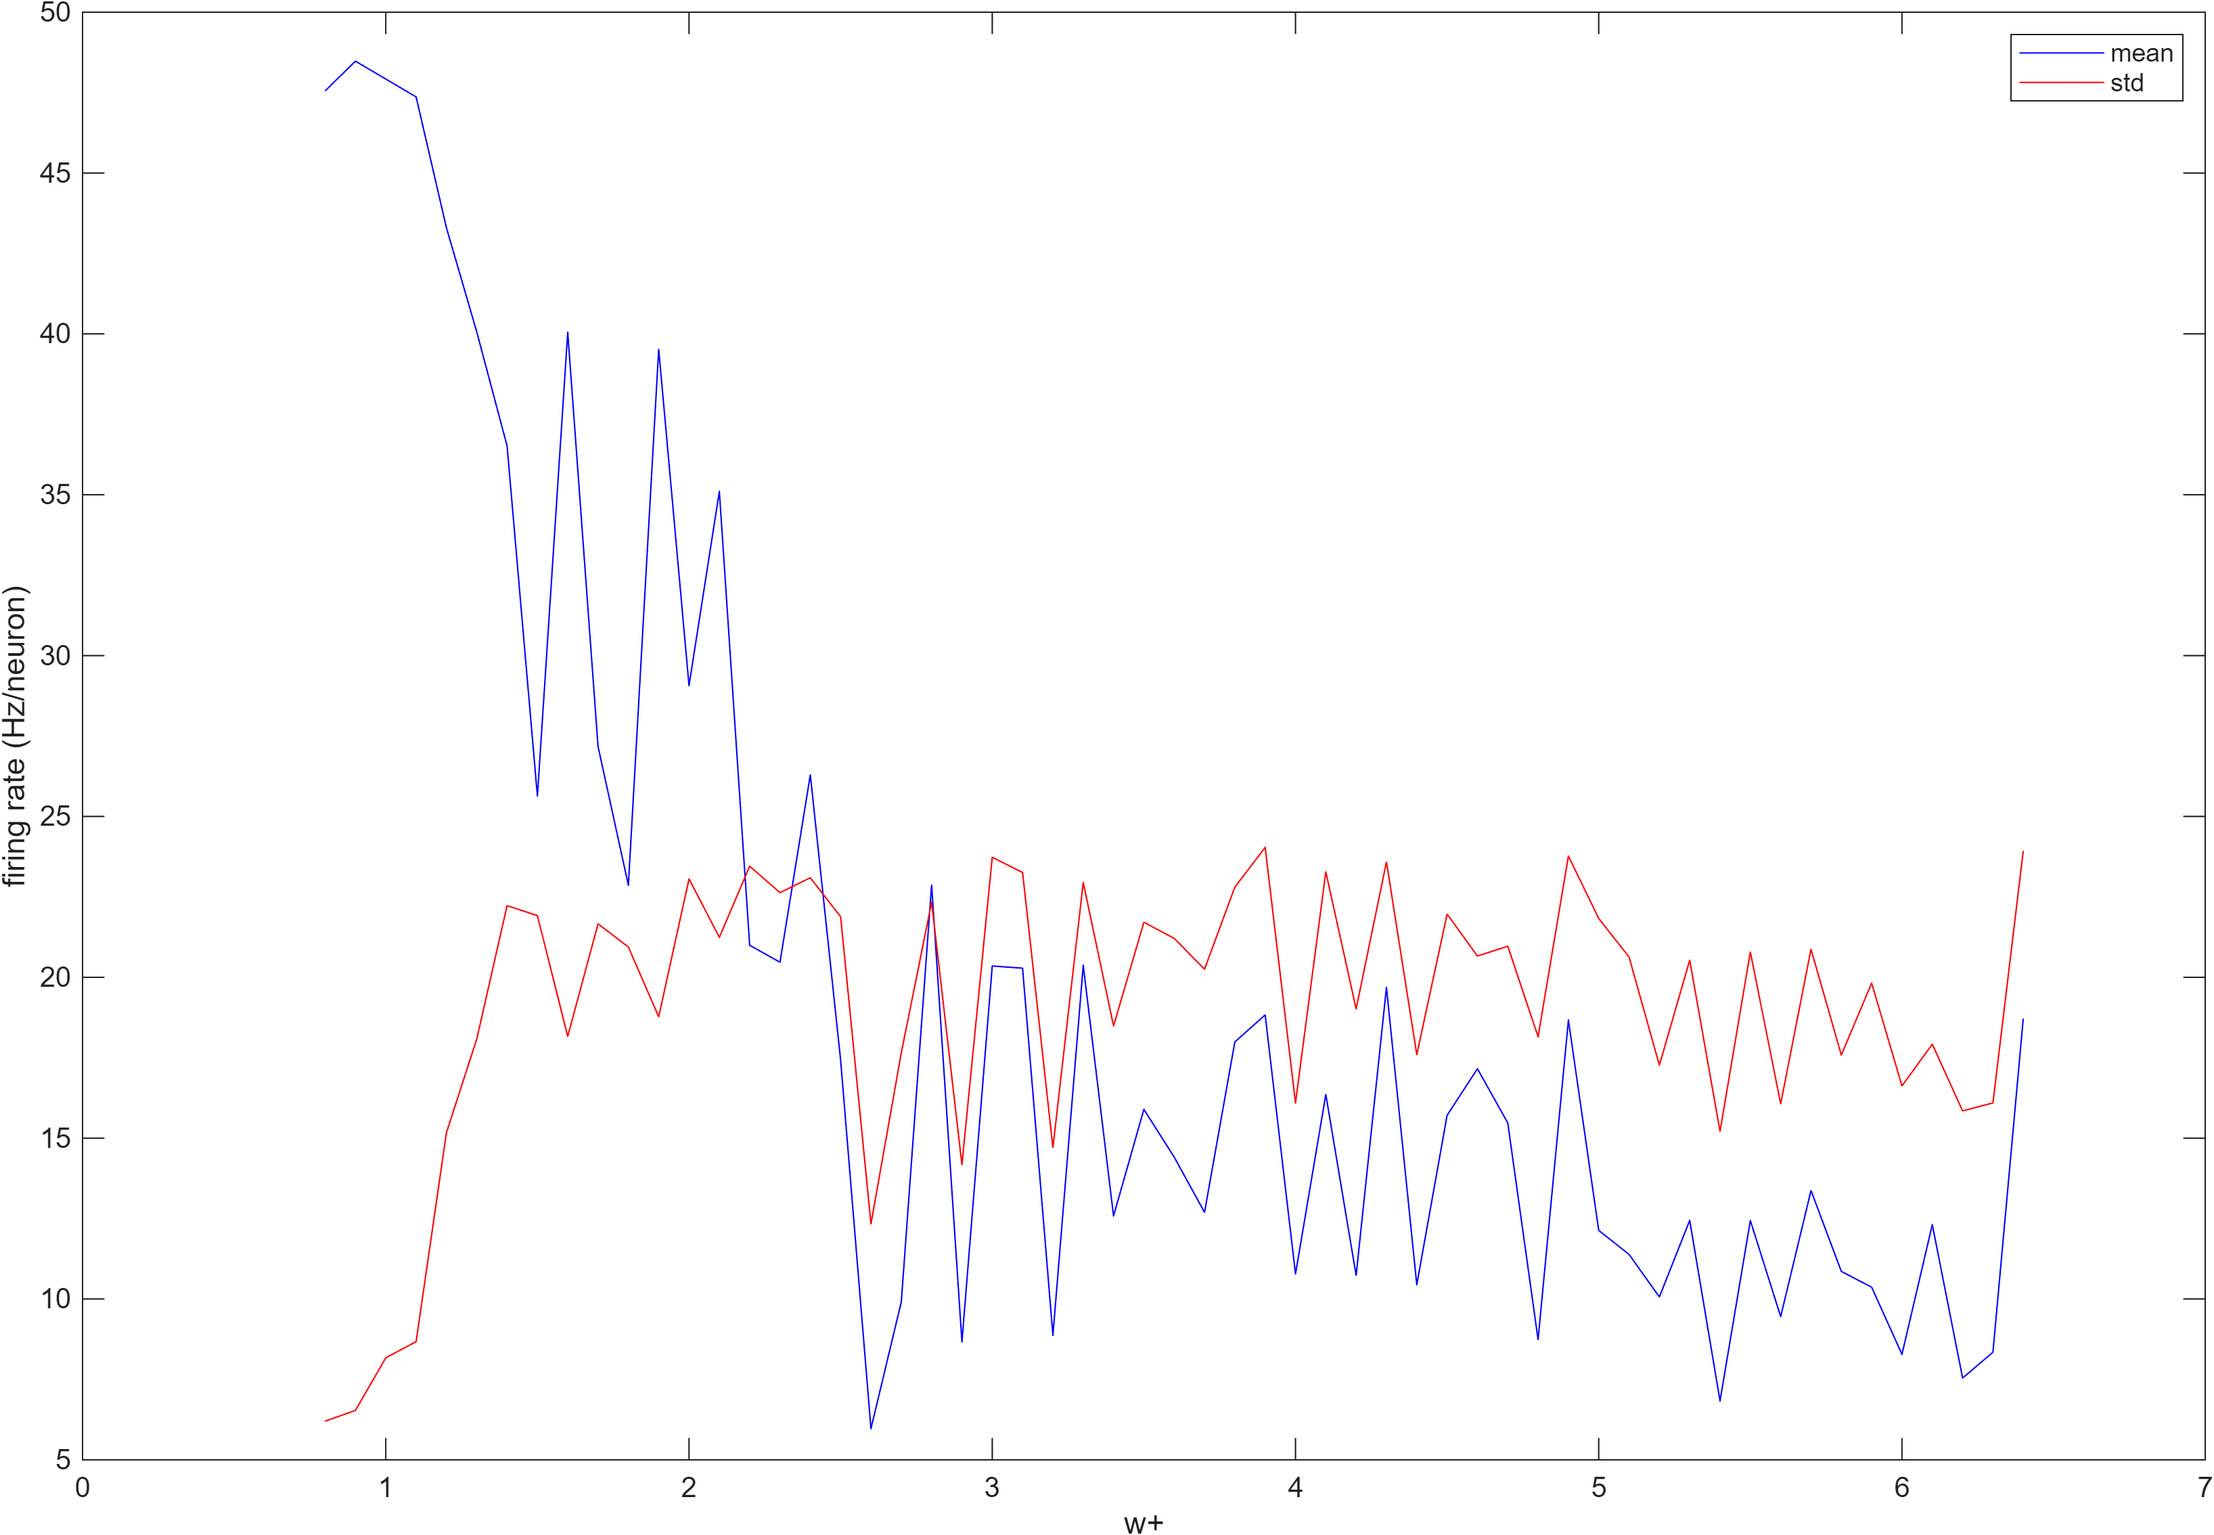
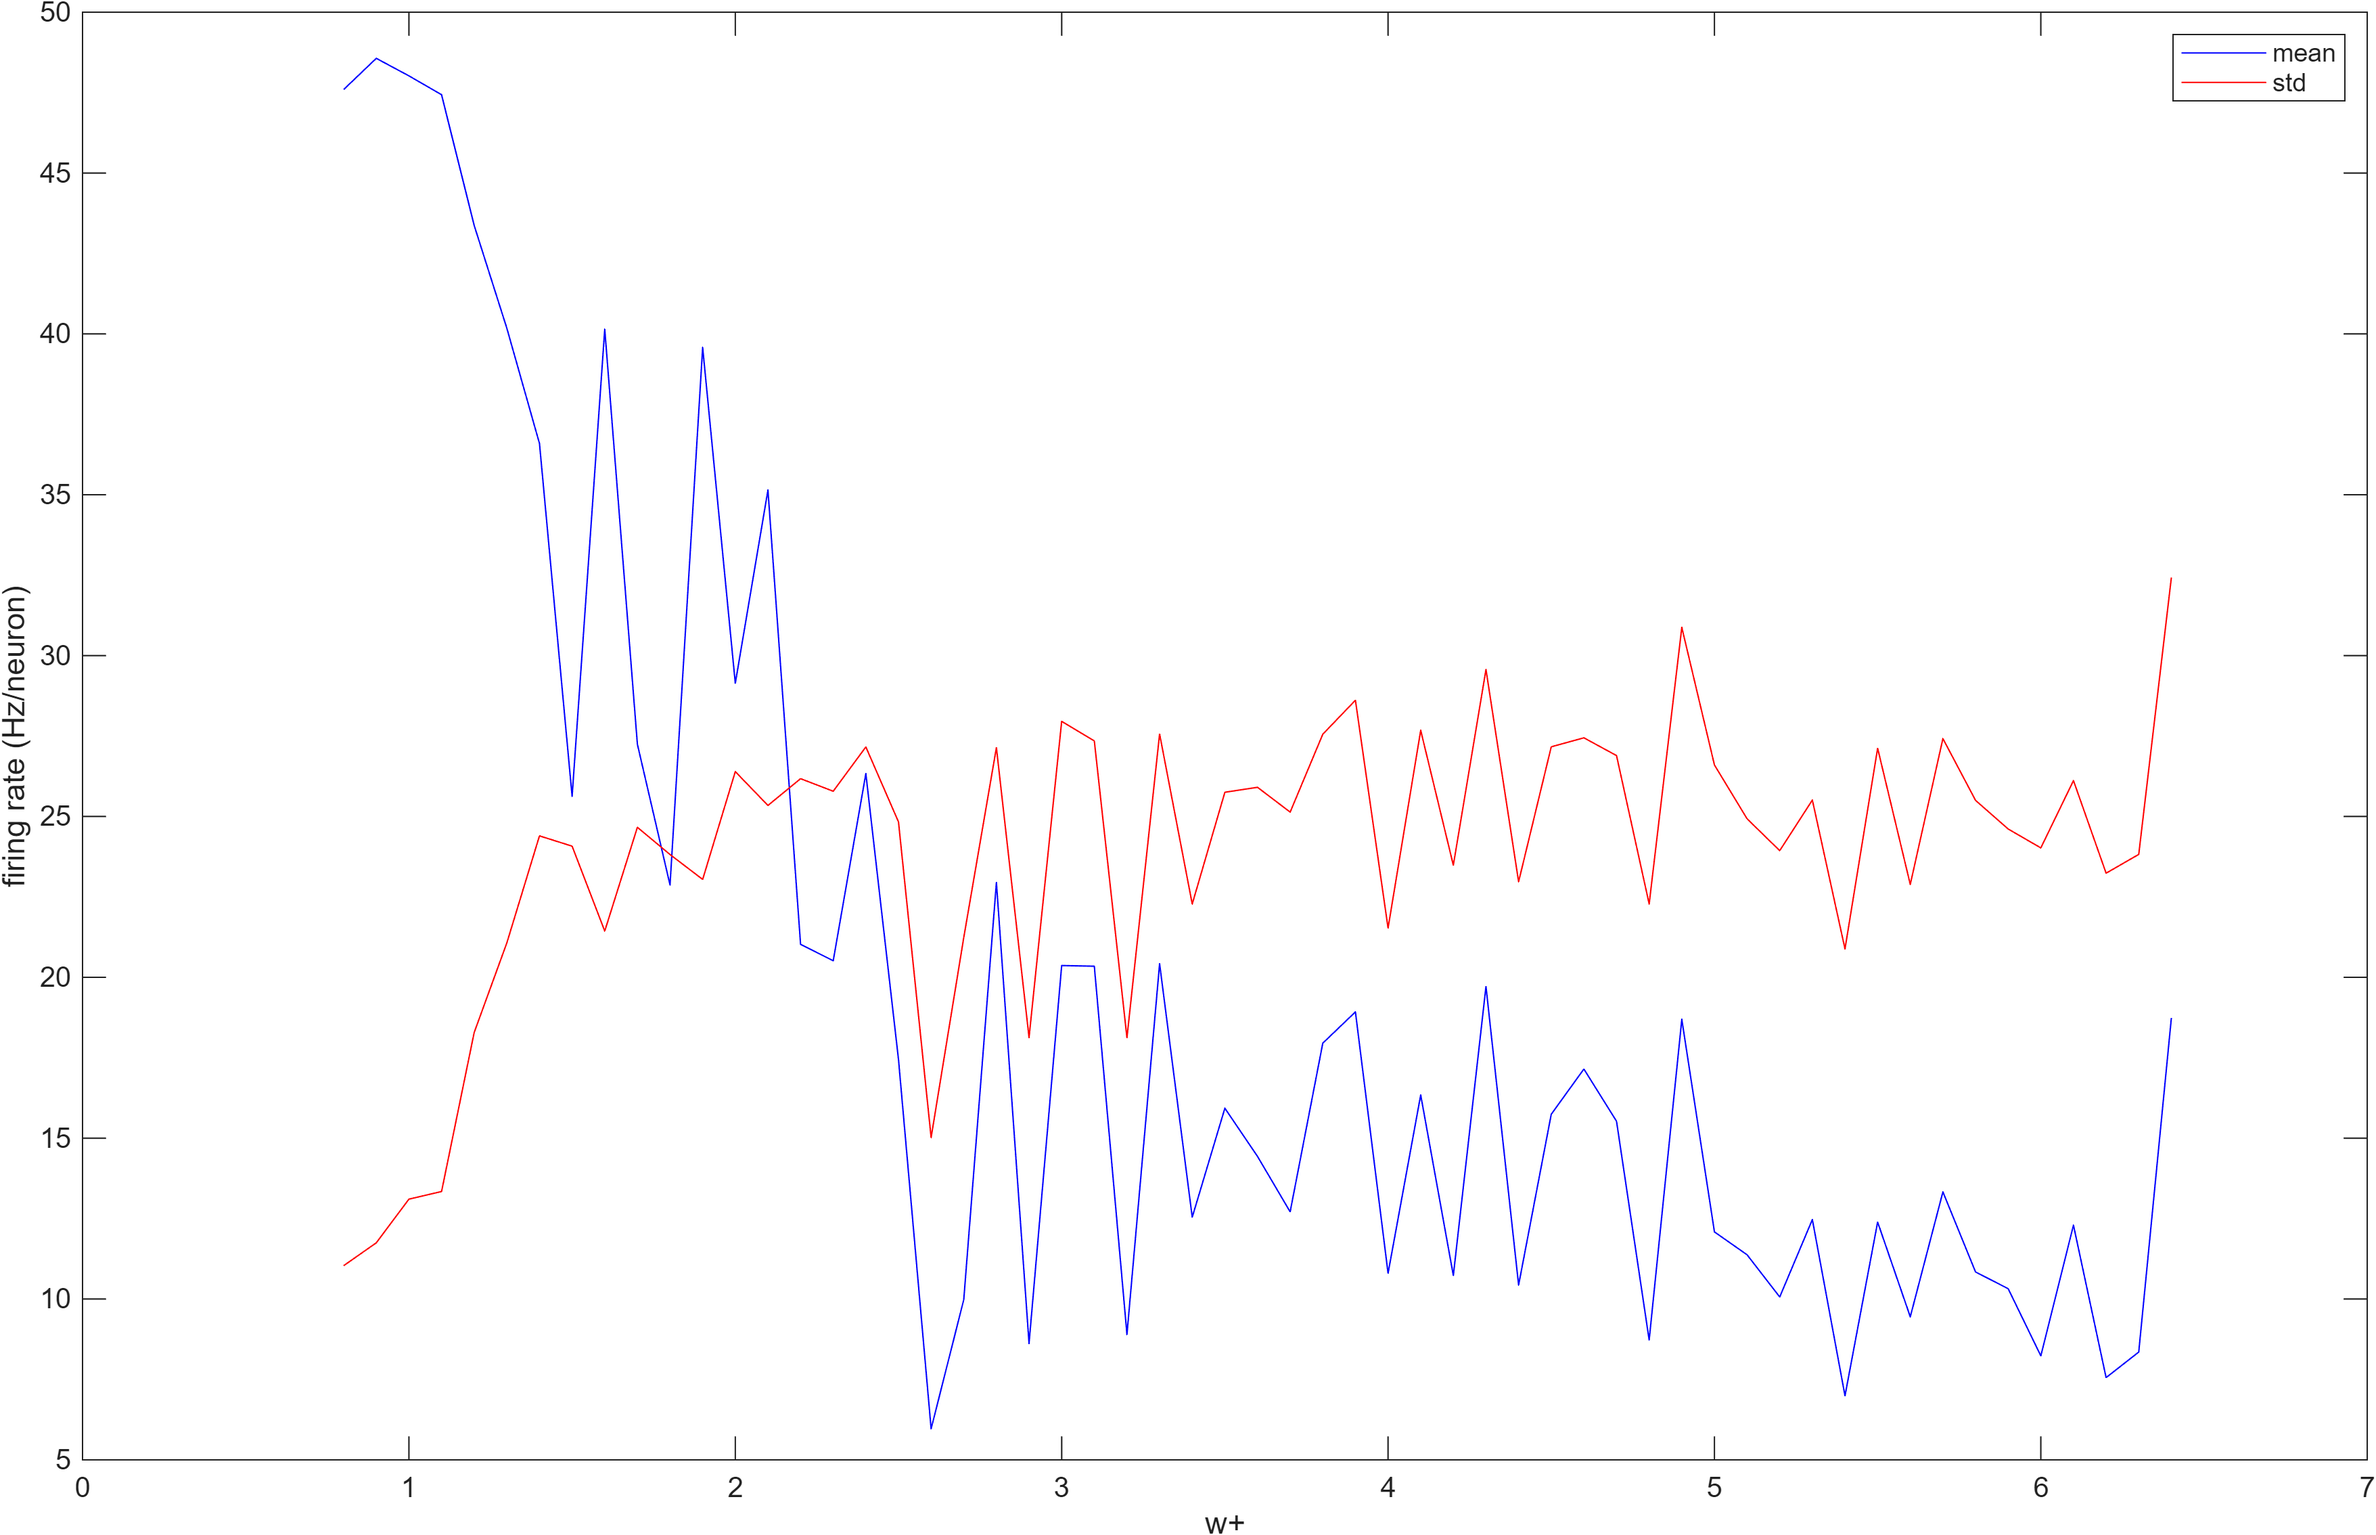
update

diff --git a/fig4.m b/fig4.m
@@ -23,7 +23,7 @@ wff_start = 0.8;
 wff_end = 6.4;
 tbin = 1;     % time bin in ms
 
-if ~exist('fig4','dir'); mkdir(path); end
+if ~exist('fig4','dir'); mkdir('fig4'); end
 
 %% Gillespie in parallel!
 wff = wff_start:wff_step:wff_end;
@@ -88,14 +88,11 @@ for k = 1:numel(files)
     D(D < 0) = 0;           % remove negatives
     event = [zeros(1,N); D];        % prepend first row
     [Tb, nspk] = timebin_sum(T, event, tbin);
-    kt = sum(nspk, 2);
-    cv(k) = std(kt) / mean(kt);
-    fr = nspk / tbin * 1000;    % in Hz
-    fr = gauss_smooth_1d(fr, sigma / tbin);
-    fr = mean(fr, 2);
+    kt = mean(nspk, 2);
 
-    mfr(k) = mean(fr);
-    sfr(k) = std(fr);
+    cv(k) = std(kt) / mean(kt);
+    mfr(k) = mean(kt) / tbin * 1000;
+    sfr(k) = std(kt) / tbin * 1000;
 end
 
 %% Plot Figure 4A, mean & std of firing rate

diff --git a/fig5.m b/fig5.m
@@ -18,8 +18,8 @@ tbin = 0.1;     % time bin in ms
 % params for multiple wff simulation
 wff = 10;
 
-if ~exist('fig5','dir'); mkdir(path); end
-if ~exist('fig5_simplified','dir'); mkdir(path); end
+if ~exist('fig5','dir'); mkdir('fig5'); end
+if ~exist('fig5_simplified','dir'); mkdir('fig5_simplified'); end
 
 %% Gillespie (very slow, and the output data is very big, so saving X as binary)
 

diff --git a/fig3.m b/fig3.m
@@ -17,7 +17,7 @@ ttot = 1000;    % total simulation time in ms
 x_min = 10;     % power law fit parameter
 n_ISI = 50;         % # neuron sampled for ISI distribution
 
-if ~exist('fig3','dir'); mkdir(path); end
+if ~exist('fig3','dir'); mkdir('fig3'); end
 
 %% ========================================= Simulation for wE + wI = 0.8
 w_tot = 0.8;

diff --git a/fig7.m b/fig7.m
@@ -23,7 +23,7 @@ conn_pct = 0.17;    % sparsity
 wff = 10;
 fname = 'fig7/data.mat';
 
-if ~exist('fig7','dir'); mkdir(path); end
+if ~exist('fig7','dir'); mkdir('fig7'); end
 
 %% Init
 [MD,~] = qr(randn(N));   % orthogonal
